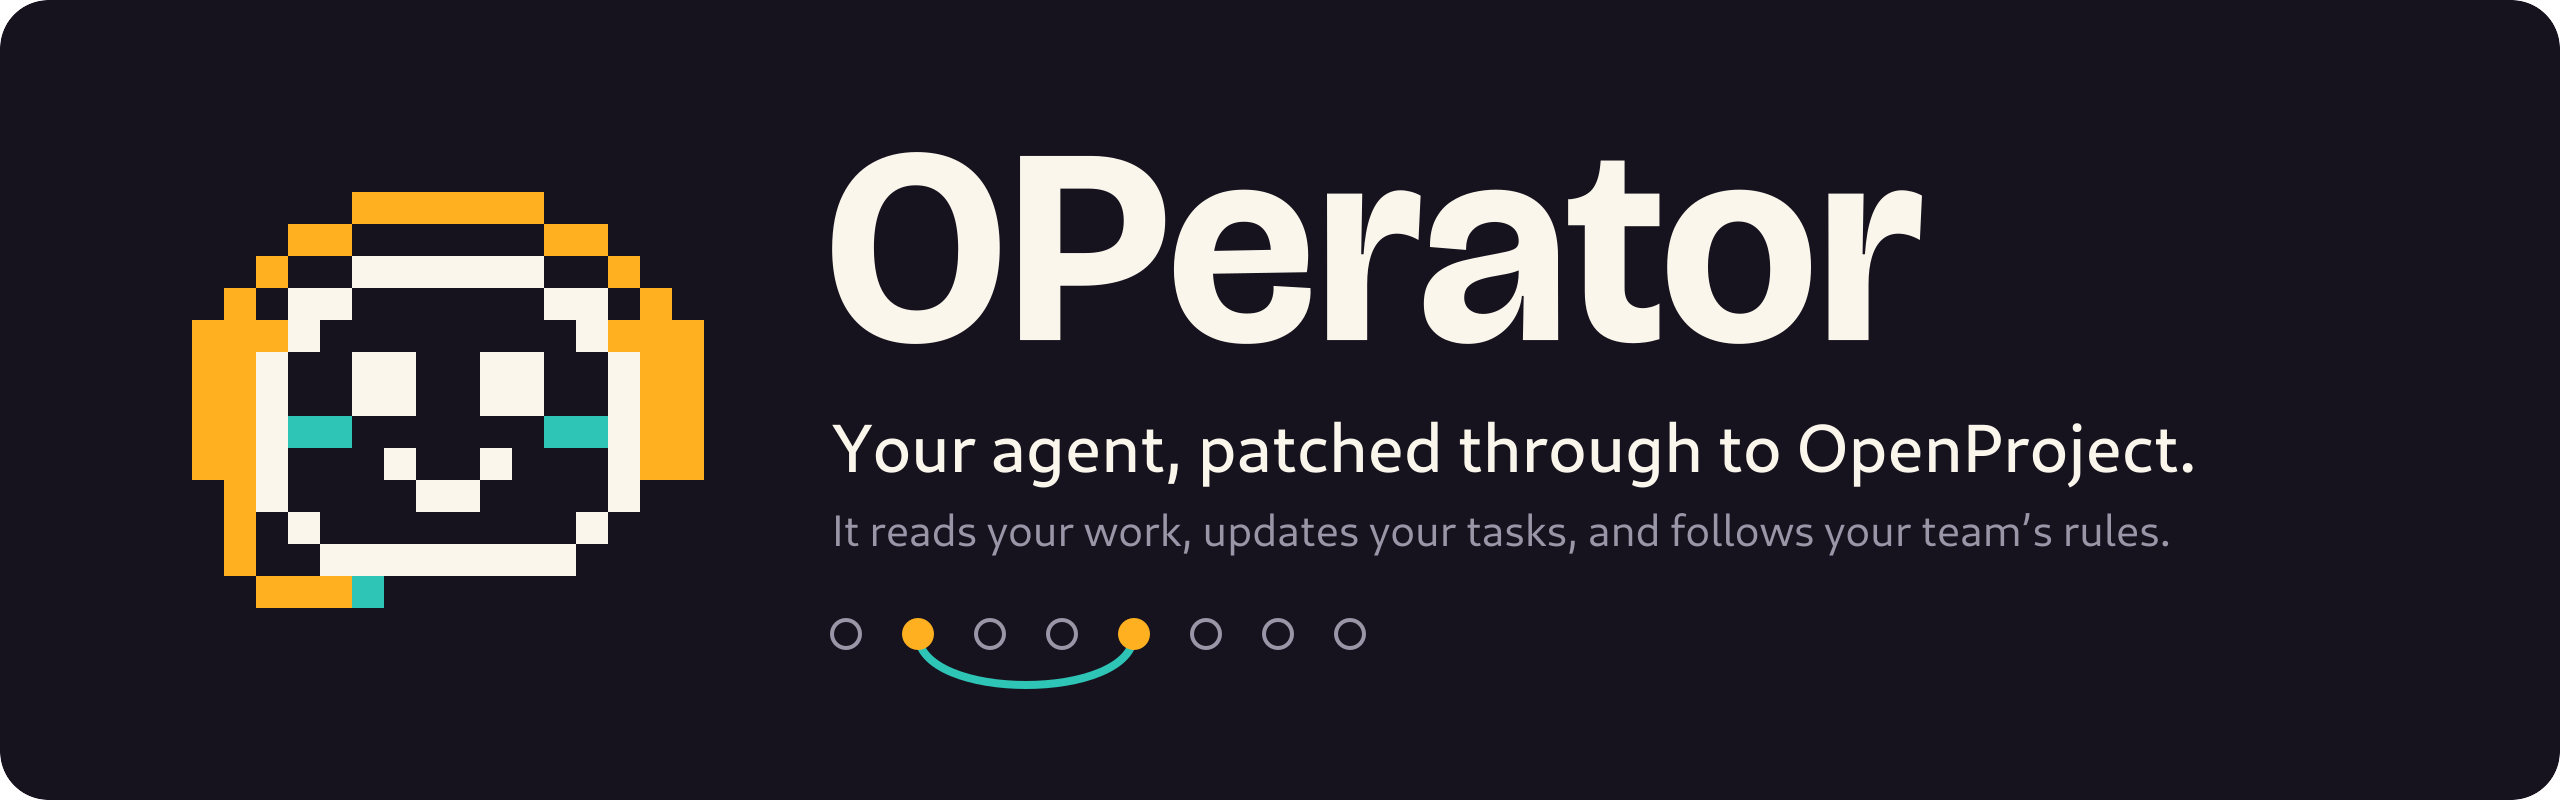
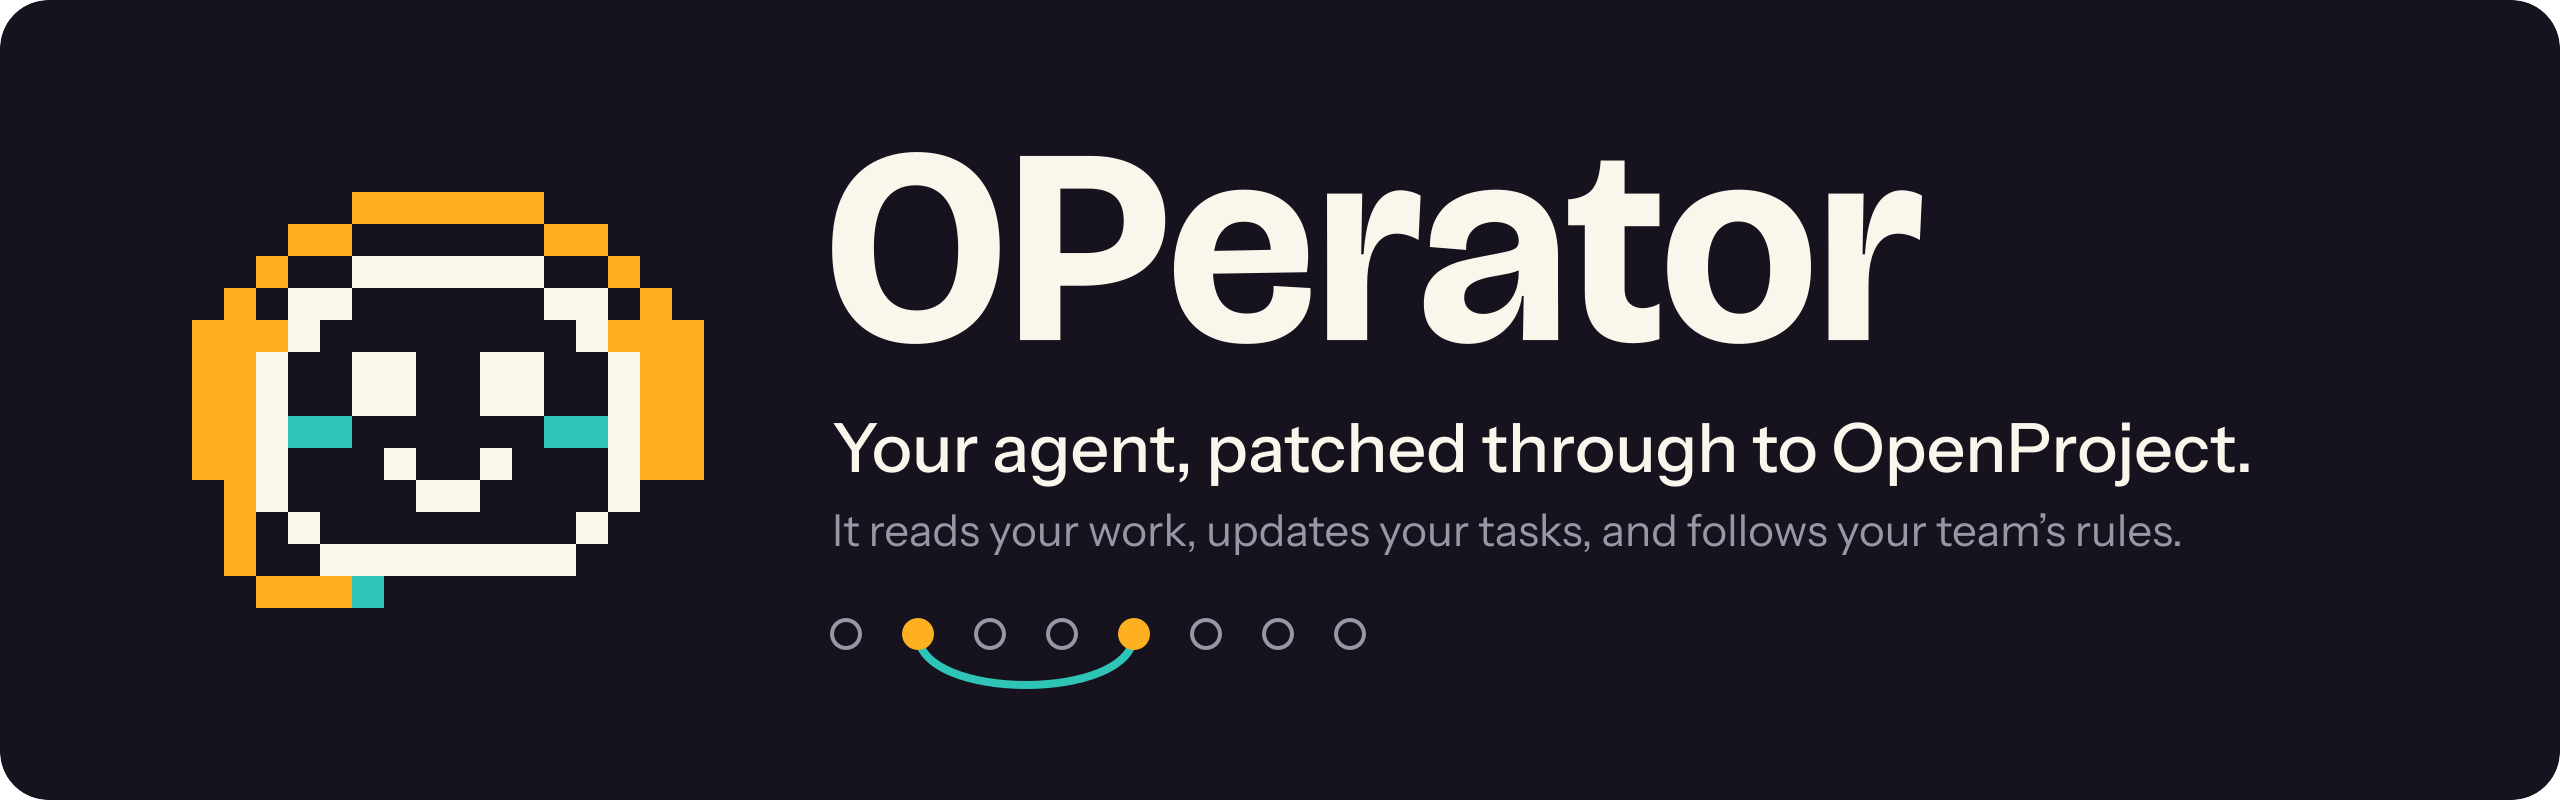
docs(brand): render the hero and card taglines in Instrument Sans
Claude-Session: https://claude.ai/code/session_01Drj6YeGoXicRLegLtS1A76

Changed region(s): [[0.3125, 0.5312, 0.875, 0.6875]]

diff --git a/docs/brand/README.md b/docs/brand/README.md
@@ -83,10 +83,20 @@ Agent clients are named in plain text chips, never with their logos.
 
 ```bash
 npm run brand                 # seed → every SVG, terminal/op.cells, src/brandCells.ts, the install.sh mark (deterministic)
-scripts/brand-raster.sh       # SVG → card.png, favicon PNGs and .ico (Inkscape + ImageMagick)
+scripts/brand-raster.sh       # SVG → card.png, hero PNGs, favicon PNGs and .ico (Inkscape + ImageMagick)
 ```
 
 `npm run brand` regenerates byte-identically; CI and tests never need Inkscape.
+
+The hero and card set their taglines in Instrument Sans, so Inkscape must find it or
+the PNGs bake in a fallback face. Without installing it system-wide:
+
+```bash
+dir=$(mktemp -d)
+curl -fsSL -o "$dir/InstrumentSans.ttf" "https://github.com/google/fonts/raw/main/ofl/instrumentsans/InstrumentSans%5Bwdth%2Cwght%5D.ttf"
+printf '<fontconfig><include>/etc/fonts/fonts.conf</include><dir>%s</dir></fontconfig>' "$dir" >"$dir/fonts.conf"
+FONTCONFIG_FILE="$dir/fonts.conf" scripts/brand-raster.sh
+```
 
 | Asset | Path |
 |---|---|
